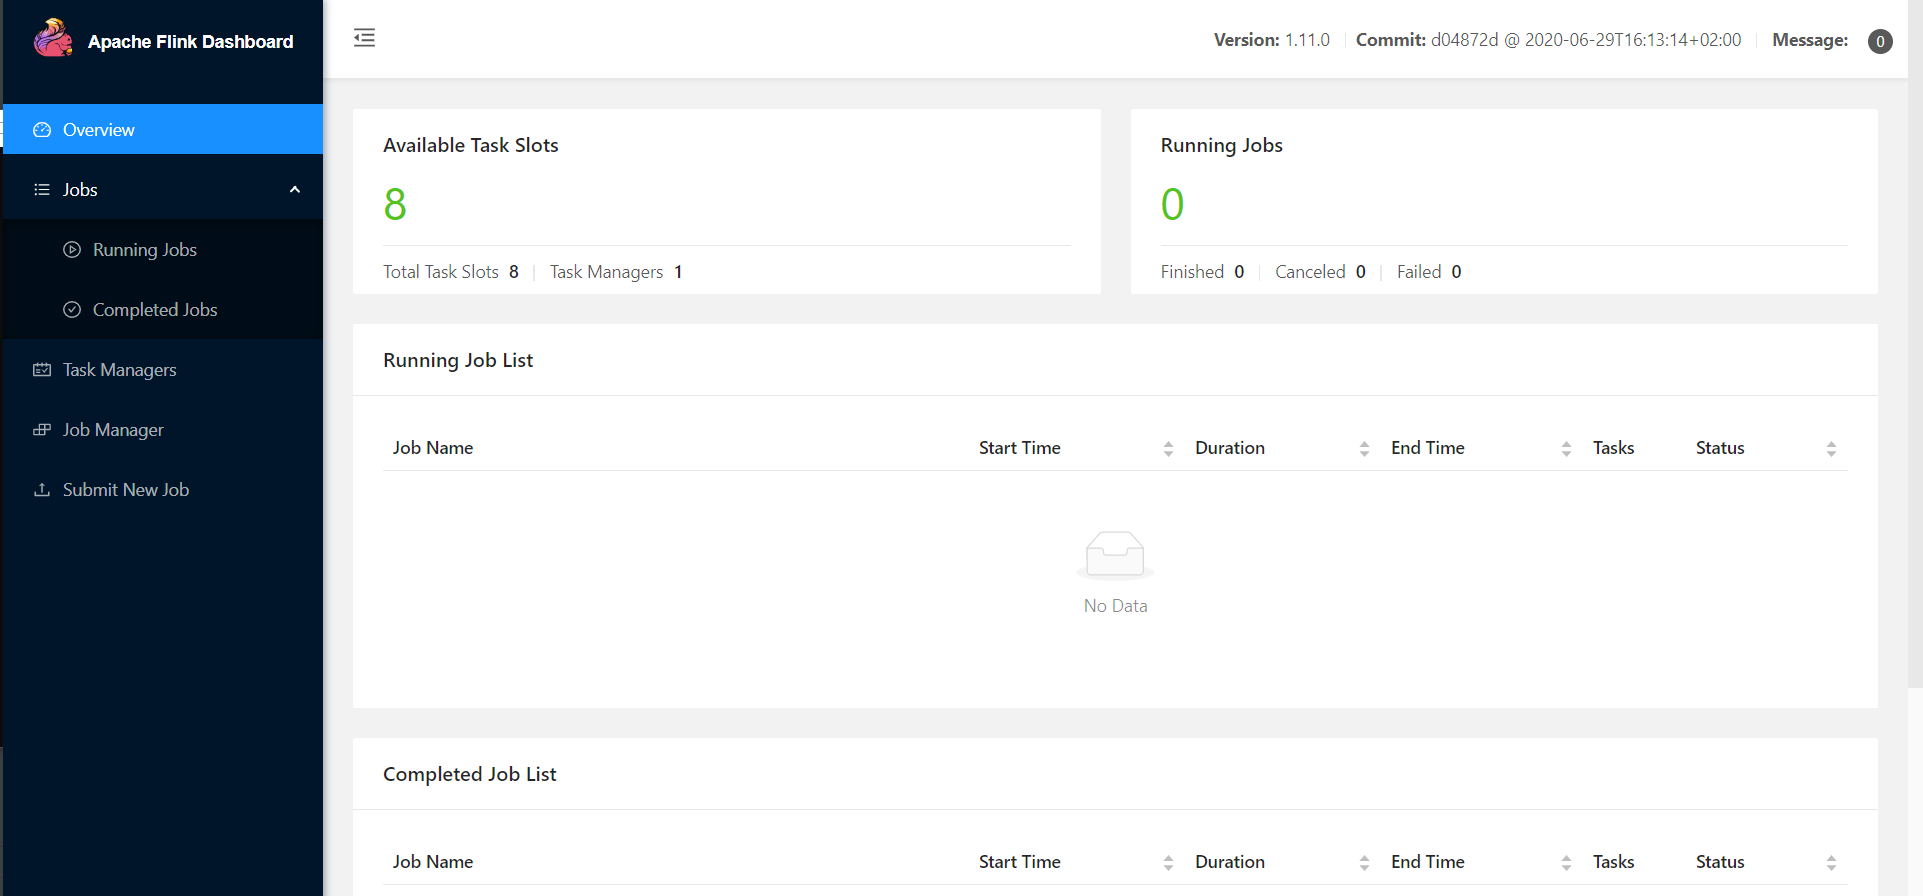
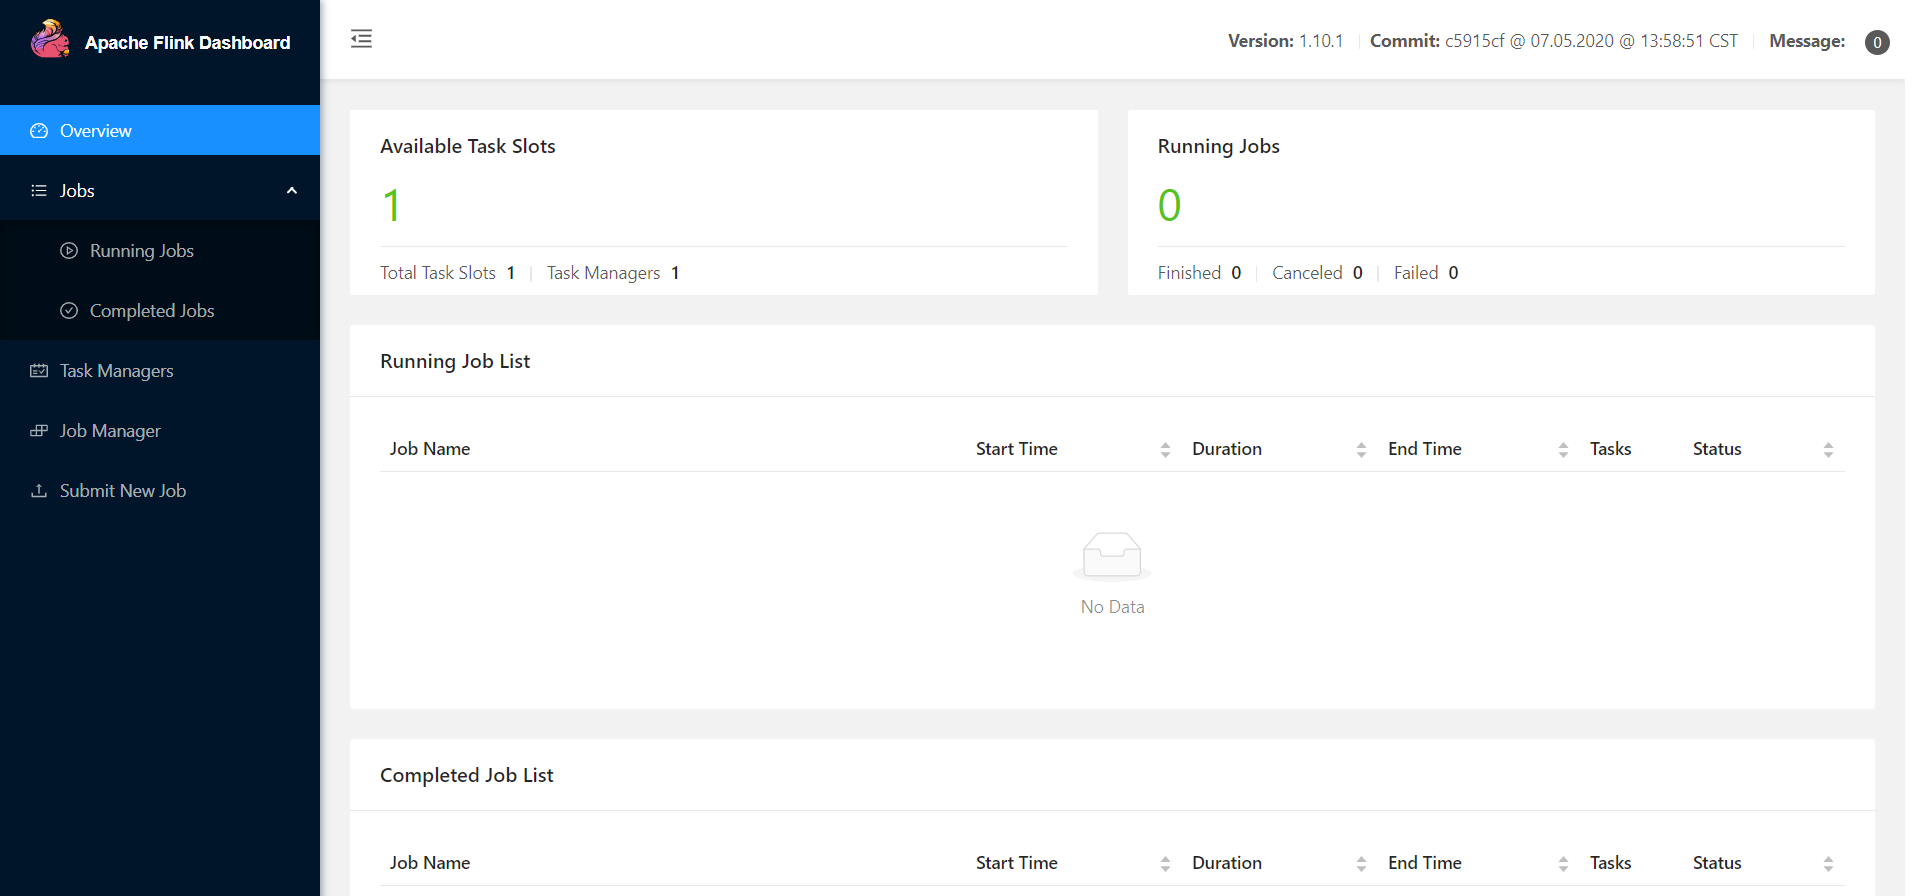
提交笔记

diff --git a/note/flink/flink部署模式.md b/note/flink/flink部署模式.md
@@ -10,116 +10,72 @@
 ---
 
 # 一、Flink部署 
-## 1.1 Standalone模式
-### 1.1.1 安装
-解压缩  flink-1.11.0-bin-scala_2.11.tgz, 进入conf目录中。
+本次使用单机 Flink 作为环境, 后续会详细介绍 Flink 的三种部署模式
 
-① 修改 flink/conf/flink-conf.yaml 文件:
+## 1.1 下载 Flink 安装包
+http://apache.mirrors.hoobly.com/flink/
 
-![flink-conf.yaml](../../img/flink/flink-conf.yaml.png)
- 
-② 修改 /conf/slave文件：
-
-如果有多台节点则执行
-![fink-slave](../../img/flink/fink-slave.png)
- 
-③ 分发给另外两台机子：
-
-如果有多台节点则执行
+## 解压, 启动 flink 
 ```bash
-scp -r fflink-1.11.0 root@hadoop2:/opt/software
+root@LAPTOP-7SSIH7L3:/opt/flink-1.10.1# bin/start-cluster.sh
+Starting cluster.
+Starting standalonesession daemon on host LAPTOP-7SSIH7L3.
+Starting taskexecutor daemon on host LAPTOP-7SSIH7L3.
+
+root@LAPTOP-7SSIH7L3:/opt/flink-1.10.1# jps
+1413 Jps
+966 StandaloneSessionClusterEntrypoint
+1304 TaskManagerRunner
 ```
- 
-④ 启动：
 
-![启动flink](../../img/flink/启动flink.png)
- 
-访问 http://localhost:8081 可以对flink集群和任务进行监控管理。
-
+在浏览器中输入: http://localhost:8081/
 ![监控管理](../../img/flink/监控管理.png)
 
- 
+## 1.2 提交任务
+![SubmitJob](../../img/flink/Flink部署模式/SubmitJob.png)
 
-### 1.1.2 提交任务
+## 1.3 运行任务
 
-① 准备数据文件
+![RunJob](../../img/flink/Flink部署模式/RunJob.png)
 
-![准备数据文件](../../img/flink/准备数据文件.png)
-
- 
-② 把含数据文件的文件夹，分发到taskmanage 机器中
+测试——在 window 子 ubuntu 系统中用 netcat 命令进行发送测试。
 
 ```bash
-scp -r /applog/flink/input.txt root@hadoop2:/applog/flink/input.txt
+kino@LAPTOP-7SSIH7L3:~$ nc -lk 8888
+
+hello spark
+hello flink
 ```
 
-由于读取数据是从本地磁盘读取，实际任务会被分发到taskmanage的机器中，所以要把目标文件分发。
+在 WebUI 中查看结果:
+![结果1](../../img/flink/Flink部署模式/结果1.png)
 
-③ 执行程序 
+![结果2](../../img/flink/Flink部署模式/结果2.png)
+
+## 1.4 停止任务
+![StopJob](../../img/flink/Flink部署模式/StopJob.png)
+
+## 1.5 将启动时设置的并行度设置为 2 再启动
+![并行度2RunJob](../../img/flink/Flink部署模式/并行度2RunJob.png)
+
+可以看见, show plan 已经不一样了, 而且我们能看见 下面 `status` 处于 `CREATED` 状态, 并且处于加载状态, 原因是因为 我们提交时设置的并行度为: 2, 而我们 `flink-conf.yaml` 配置文件中, `taskmanager.numberOfTaskSlots` 默认为: 1
+
+我们修改配置文件中的该参数为: 2 然后重启flink再提交任务
 ```bash
-./flink run -c com.kino.flink.app.BatchWcApp  /ext/flinkTest-1.0-SNAPSHOT.jar  --input /applog/flink/input.txt --output /applog/flink/output.csv
+root@LAPTOP-7SSIH7L3:/opt/flink-1.10.1# vim conf/flink-conf.yaml
+
+taskmanager.numberOfTaskSlots: 2
 ```
 
-![fink-run](../../img/flink/fink-run.png)
- 
-④ 到目标文件夹中查看计算结果
-注意：计算结果根据会保存到taskmanage的机器下，不会在jobmanage下。
- 
-![查看结果](../../img/flink/查看结果.png)
+再次提交任务
 
-⑤ 在webui控制台查看计算过程 
+![并行度2再次运行](../../img/flink/Flink部署模式/并行度2结果1.png)
 
-![在web看结果](../../img/flink/在web看结果.png)
- 
+可以看到此时任务正常运行起来了, 我们使用 nc 输入看一下效果
+```bash
+kino@LAPTOP-7SSIH7L3:~$ nc -lk 8888
 
-# 二、Yarn模式
-以Yarn模式部署Flink任务时，要求Flink是有Hadoop支持的版本，Hadoop环境需要保证版本在2.2以上，并且集群中安装有HDFS服务。
-1)	启动hadoop集群（略）
-2)	启动yarn-session
-    ```bash
-    ./yarn-session.sh -n 2 -s 2 -jm 1024 -tm 1024 -nm test -d
-    ```
-    其中：
-
-    -n(--container)：TaskManager的数量。
-
-    -s(--slots)：	每个TaskManager的slot数量，默认一个slot一个core，默认每个taskmanager的slot的个数为1，有时可以多一些taskmanager，做冗余。
-
-    -jm：JobManager的内存（单位MB)。
-
-    -tm：每个taskmanager的内存（单位MB)。
-
-    -nm：yarn 的appName(现在yarn的ui上的名字)。 
-
-    -d：后台执行。
-
- 
-3)	执行任务
-./flink run  -m yarn-cluster -c com.atguigu.flink.app.BatchWcApp  /ext/flink0503-1.0-SNAPSHOT.jar  --input /applog/flink/input.txt --output /applog/flink/output5.csv
-
- 
-4)	去yarn控制台查看任务状态
- 
-
-# 三、Kubernetes部署
-容器化部署时目前业界很流行的一项技术，基于Docker镜像运行能够让用户更加方便地对应用进行管理和运维。容器管理工具中最为流行的就是Kubernetes（k8s），而Flink也在最近的版本中支持了k8s部署模式。
-
-1. 搭建Kubernetes集群（略）
-
-2. 配置各组件的yaml文件
-
-    在k8s上构建Flink Session Cluster，需要将Flink集群的组件对应的docker镜像分别在k8s上启动，包括JobManager、TaskManager、JobManagerService三个镜像服务。每个镜像服务都可以从中央镜像仓库中获取。
-
-3. 启动Flink Session Cluster
-    ```bash
-    // 启动jobmanager-service 服务
-    kubectl create -f jobmanager-service.yaml
-    // 启动jobmanager-deployment服务
-    kubectl create -f jobmanager-deployment.yaml
-    // 启动taskmanager-deployment服务
-    kubectl create -f taskmanager-deployment.yaml
-    ```
-
-4. 访问Flink UI页面
-集群启动后，就可以通过JobManagerServicers中配置的WebUI端口，用浏览器输入以下url来访问Flink UI页面了：
-http://{JobManagerHost:Port}/api/v1/namespaces/default/services/flink-jobmanager:ui/proxy
+hello spark
+hello flink
+```
+![并行度2再次运行输出结果](../../img/flink/Flink部署模式/并行度2结果2.png)
